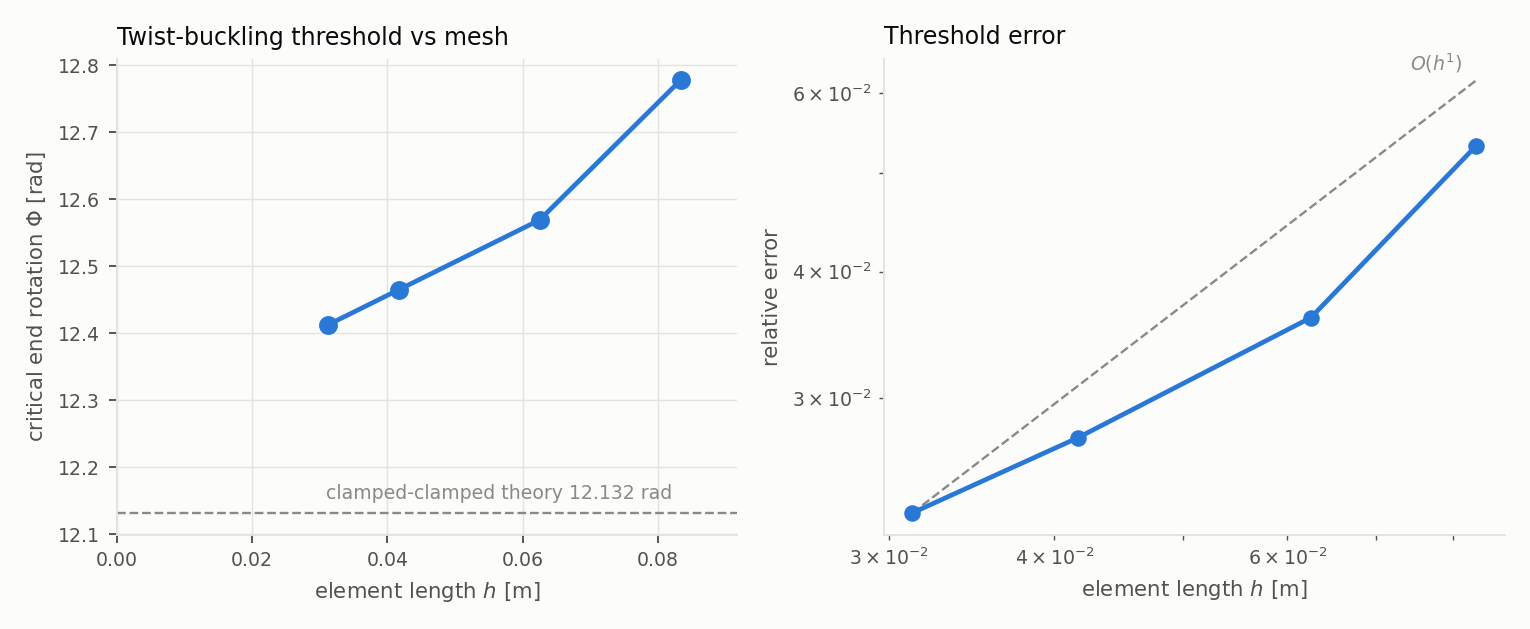
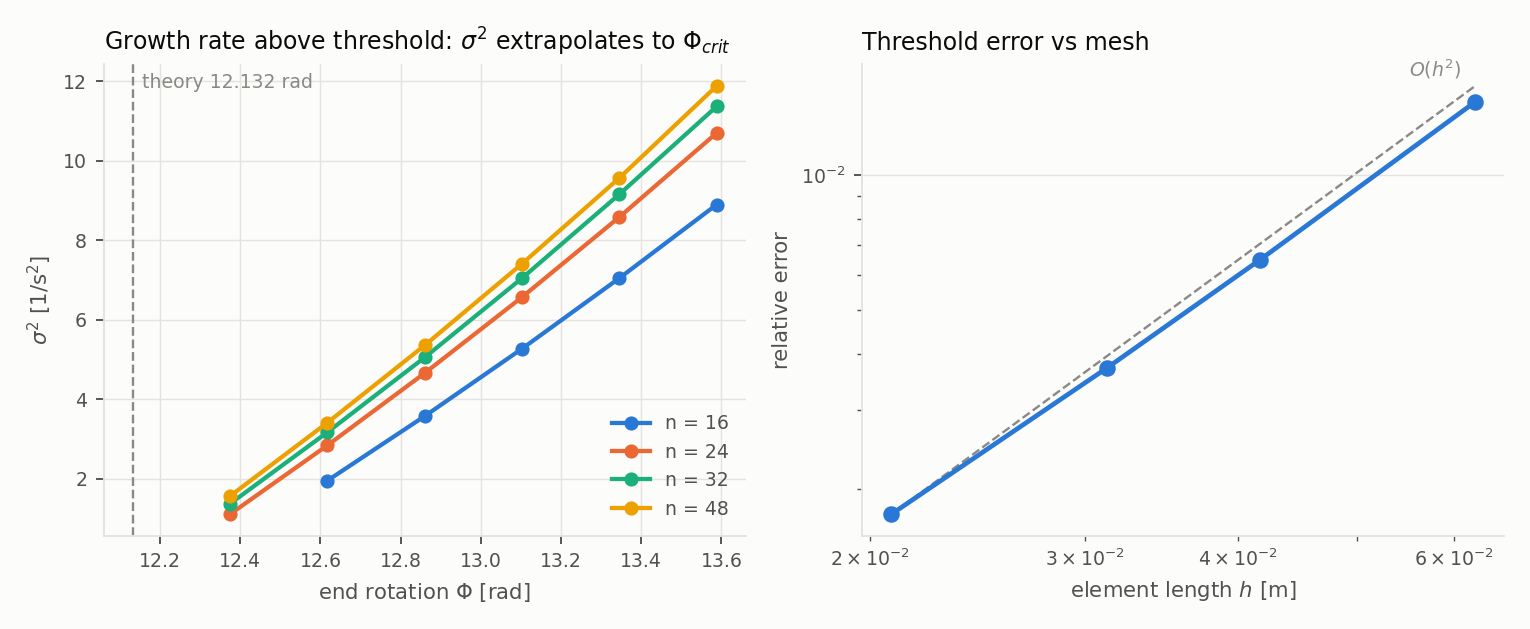
Twist buckling by growth rate: second order, 0.18% at n = 48
The case bisected on 'the seed grew 100x within 4 s' and reported 2.3% at
n = 32, slope 0.82. Both were the finite window: sigma ~ sqrt(Phi - Phi_crit),
so a window T overshoots by ~1/T^2 (+2.41%, +0.85%, +0.47% at 4, 8, 16 s).
It now measures the growth rate at twists 2-12% above theory and extrapolates
sigma^2 to zero: 1.46%, 0.65%, 0.37%, 0.18% at n = 16, 24, 32, 48, slope 1.93.
Substeps scale with the element (16 n per ms); the runs are threaded, and the
case takes 3 minutes instead of 9.

Claude-Session: https://claude.ai/code/session_01MHVSveg6UHVTXpnJbRWm7k

diff --git a/src/validation/cases.cpp b/src/validation/cases.cpp
@@ -4,6 +4,7 @@
 #include <cmath>
 #include <fstream>
 #include <sstream>
+#include <thread>
 
 #include "../core/solver.h"
 #include "../core/statics.h"
@@ -576,12 +577,17 @@ CaseResult runHelix(const std::string& outDir) {
 //
 //     Phi_crit = 8.986819 EI / GJ = 8.986819 (1 + nu)
 //
-// Fixing both end positions makes the bifurcation supercritical: above the
-// threshold the amplitude is limited by the axial strain that bowing costs, so
-// it grows smoothly like sqrt(Phi - Phi_crit) instead of running away. That is
-// what makes the threshold measurable rather than merely bracketable: a^2 is
-// linear in Phi near onset, so extrapolating it to zero locates Phi_crit
-// without ever having to pick an arbitrary "has buckled" amplitude.
+// Locating the threshold. Above it a small lateral perturbation grows as
+// e^(sigma t), and for this undamped system sigma^2 crosses zero smoothly at
+// Phi_crit. So the case measures sigma at several twists above the threshold
+// and extrapolates sigma^2 (a quadratic in Phi) to zero.
+//
+// It used to bisect on "the seed grew 100x within 4 s" instead, and that
+// reported 2.3% at n = 32, converging at slope 0.82. Both numbers were the
+// window, not the rod: sigma goes like sqrt(Phi - Phi_crit), so a finite
+// window T overshoots by ~1/T^2. At n = 32 the same bisection gave +2.41%,
+// +0.85% and +0.47% for 4, 8 and 16 s windows (tools/experiments/
+// twist_window.cpp), converging on the +0.38% the growth rate gives directly.
 CaseResult runTwistBuckling(const std::string& outDir) {
     CaseResult res;
     res.name = "Michell/Greenhill twist buckling threshold";
@@ -611,9 +617,11 @@ CaseResult runTwistBuckling(const std::string& outDir) {
     // the requirement that alpha/h^2 dominate J M^-1 J^T, which for this rod
     // means h of a few microseconds; that is affordable precisely because
     // honest dynamics does not need the quadratic sweep budget a converged
-    // static solve does.
-    const int steps = 4000;
-    const int substeps = 256;
+    // static solve does. The substep shrinks with the element (16 n per ms, 256
+    // at n = 32): at n = 48, 256 substeps left a 0.013% time error in a 0.18%
+    // threshold error and bent the convergence plot.
+    const int maxSteps = 30000;  // 30 s cap; the slowest growth used takes ~8 s
+    auto substepsFor = [](int n) { return 16 * n; };
 
     auto twistedRod = [&](int n, double phi) {
         Rod rod = makeStraightRod(n, L, mat, Vec3(0, 0, 0), Vec3(0, 0, 1));
@@ -640,7 +648,10 @@ CaseResult runTwistBuckling(const std::string& outDir) {
         return rod;
     };
 
-    auto amplitudeAt = [&](int n, double phi) {
+    // Growth rate from the time the lateral amplitude takes to go from 1e-5 to
+    // 1e-3 m: well past the 1e-7 seed's transient, well short of the ~1e-2 m at
+    // which the fixed end positions saturate it. 0 if it never gets there.
+    auto growthRate = [&](int n, double phi) {
         Rod rod = twistedRod(n, phi);
         for (std::size_t i = 1; i + 1 < rod.state.numParticles(); ++i)
             rod.state.x[i].x += seed * std::sin(kPi * rod.state.x[i].z / L);
@@ -648,25 +659,23 @@ CaseResult runTwistBuckling(const std::string& outDir) {
 
         SolverParams p;
         p.dt = Real(1e-3);
-        p.substeps = substeps;
+        p.substeps = substepsFor(n);
         p.iterations = 1;
         p.gravity = Vec3();
 
-        double amp = 0;
-        for (int i = 0; i < steps; ++i) {
+        double t1 = -1;
+        for (int i = 1; i <= maxSteps; ++i) {
             step(rod, p);
-            // Track the largest excursion over the whole window, not just the
-            // final one: below threshold the seed oscillates rather than decays,
-            // so the endpoint alone is a noisy thing to threshold on.
-            for (const Vec3& x : rod.state.x)
-                amp = std::max(amp, std::sqrt(x.x * x.x + x.y * x.y));
-            if (amp > 0.05) break;  // unambiguously buckled; no need to continue
+            double amp = 0;
+            for (const Vec3& x : rod.state.x) amp = std::max(amp, std::sqrt(x.x * x.x + x.y * x.y));
+            if (t1 < 0 && amp > 1e-5) t1 = i * double(p.dt);
+            if (amp > 1e-3) return std::log(100.0) / (i * double(p.dt) - t1);
         }
-        return amp;
+        return 0.0;
     };
 
-    Csv csv(outDir, "twist_buckling.csv",
-            "segments,h,phi_crit,phi_crit_ref,rel_err,amp_below,amp_above");
+    Csv csv(outDir, "twist_buckling.csv", "segments,h,phi_crit,phi_crit_ref,rel_err,rates_used");
+    Csv rates(outDir, "twist_buckling_rates.csv", "segments,phi,overshoot,sigma");
 
     // Guard on the base state before trusting any threshold read off it. A
     // uniformly twisted rod's stored energy has a closed form in the DISCRETE
@@ -702,38 +711,82 @@ CaseResult runTwistBuckling(const std::string& outDir) {
             makeCheck("twisted base state stores the right energy", stored, discrete, 0.002));
     }
 
-    const double buckled = 100.0 * double(seed);  // four orders below the saturated amplitude
-    const std::vector<int> counts = {12, 16, 24, 32};
-    std::vector<double> hs, errs;
-    double finest = 0;
+    // Twists 2-12% above the continuum threshold. The coarsest mesh's own
+    // threshold is above the lowest of them, which then does not grow and is
+    // left out of its fit.
+    const std::vector<int> counts = {16, 24, 32, 48};
+    const std::vector<double> overshoots = {0.02, 0.04, 0.06, 0.08, 0.10, 0.12};
+    std::vector<std::vector<double>> sigma(counts.size(), std::vector<double>(overshoots.size()));
+    {
+        std::vector<std::thread> pool;
+        for (std::size_t a = 0; a < counts.size(); ++a)
+            for (std::size_t b = 0; b < overshoots.size(); ++b)
+                pool.emplace_back([&, a, b] {
+                    sigma[a][b] = growthRate(counts[a], phiCritRef * (1 + overshoots[b]));
+                });
+        for (std::thread& t : pool) t.join();
+    }
 
-    for (int n : counts) {
-        // Bracket, then bisect. The lower bracket is known not to buckle and the
-        // upper is known to.
-        double lo = 0.5 * phiCritRef, hi = 1.6 * phiCritRef;
-        const double ampLo = amplitudeAt(n, lo), ampHi = amplitudeAt(n, hi);
-        for (int it = 0; it < 9; ++it) {
-            const double mid = 0.5 * (lo + hi);
-            if (amplitudeAt(n, mid) > buckled)
-                hi = mid;
-            else
-                lo = mid;
+    std::vector<double> hs, errs;
+    bool allFitted = true;
+    for (std::size_t a = 0; a < counts.size(); ++a) {
+        const int n = counts[a];
+        // Least-squares quadratic sigma^2(Phi), in u = Phi / Phi_ref - 1 for
+        // conditioning, then its root nearest the reference.
+        double S[5] = {0, 0, 0, 0, 0}, T3[3] = {0, 0, 0};
+        int used = 0;
+        for (std::size_t b = 0; b < overshoots.size(); ++b) {
+            rates.row(n, phiCritRef * (1 + overshoots[b]), overshoots[b], sigma[a][b]);
+            if (sigma[a][b] <= 0) continue;
+            const double u = overshoots[b], y = sigma[a][b] * sigma[a][b];
+            double uk = 1;
+            for (int k = 0; k < 5; ++k, uk *= u) S[k] += uk;
+            T3[0] += y, T3[1] += y * u, T3[2] += y * u * u;
+            ++used;
         }
-        const double phiCrit = 0.5 * (lo + hi);
+        if (used < 4) {
+            allFitted = false;
+            continue;
+        }
+        // Normal equations for y = c0 + c1 u + c2 u^2, by Cramer's rule.
+        auto det3 = [](double m[3][3]) {
+            return m[0][0] * (m[1][1] * m[2][2] - m[1][2] * m[2][1]) -
+                   m[0][1] * (m[1][0] * m[2][2] - m[1][2] * m[2][0]) +
+                   m[0][2] * (m[1][0] * m[2][1] - m[1][1] * m[2][0]);
+        };
+        double A[3][3] = {{S[0], S[1], S[2]}, {S[1], S[2], S[3]}, {S[2], S[3], S[4]}};
+        const double D = det3(A);
+        double c[3];
+        for (int k = 0; k < 3; ++k) {
+            double M[3][3];
+            for (int r = 0; r < 3; ++r)
+                for (int q = 0; q < 3; ++q) M[r][q] = q == k ? T3[r] : A[r][q];
+            c[k] = det3(M) / D;
+        }
+        // sigma^2 rises through zero at the threshold: the root where the
+        // slope is positive.
+        const double disc = std::sqrt(std::max(0.0, c[1] * c[1] - 4 * c[2] * c[0]));
+        const double r1 = (-c[1] + disc) / (2 * c[2]), r2 = (-c[1] - disc) / (2 * c[2]);
+        const double root = (c[1] + 2 * c[2] * r1 > 0) ? r1 : r2;
+        const double phiCrit = phiCritRef * (1 + root);
         const double err = std::abs(phiCrit - phiCritRef) / phiCritRef;
         hs.push_back(L / n);
         errs.push_back(err);
-        finest = err;
-        csv.row(n, L / n, phiCrit, phiCritRef, err, ampLo, ampHi);
+        csv.row(n, L / n, phiCrit, phiCritRef, err, used);
+        res.notes.push_back(fmt("  n=%.0f: Phi_crit = %.5f rad, %.3g relative error", double(n),
+                                phiCrit, err));
     }
 
-    const double slope = logLogSlope(hs, errs);
     res.notes.push_back(fmt("  clamped-clamped: M_crit L / EI = %.6f, so Phi_crit = %.5f rad "
                             "(%.4f turns)", thetaCrit, phiCritRef, phiCritRef / (2 * kPi)));
-    res.notes.push_back(fmt("  threshold error %.3g at the finest mesh, converging at slope %.2f "
-                            "in h", finest, slope));
-    res.checks.push_back(makeCheck("buckling threshold (finest mesh)", finest, 0.0, 0.05, 1.0));
-    res.checks.push_back(makeRangeCheck("threshold convergence order in h", slope, 0.8, 3.0));
+    res.checks.push_back(makeCheck("growth rate fitted on every mesh", allFitted ? 1.0 : 0.0, 1.0, 0.0));
+    if (errs.size() == counts.size()) {
+        const double slope = logLogSlope(hs, errs);
+        res.notes.push_back(fmt("  threshold error %.3g at the finest mesh, converging at slope %.2f "
+                                "in h", errs.back(), slope));
+        res.checks.push_back(makeCheck("buckling threshold (finest mesh)", errs.back(), 0.0, 0.01, 1.0));
+        res.checks.push_back(makeRangeCheck("threshold convergence order in h", slope, 1.7, 2.3));
+    }
     return res;
 }
 

diff --git a/tools/plot_validation.py b/tools/plot_validation.py
@@ -205,19 +205,24 @@ def plot_dissipation(data, figs):
 
 def plot_twist(data, figs):
     d = read(os.path.join(data, "twist_buckling.csv"))
-    fig, (ax0, ax1) = new_fig(9.0, 3.7, 2)
     ref = d["phi_crit_ref"][0]
-    ax0.plot(d["h"], d["phi_crit"], "o-", color=T["series"][0], linewidth=2, markersize=7,
-             label="measured")
-    ax0.axhline(ref, color=T["guide"], linestyle="--", linewidth=1)
-    ax0.annotate(f"clamped-clamped theory {ref:.3f} rad", (max(d["h"]), ref), color=T["guide"],
-                 fontsize=8, xytext=(-150, 6), textcoords="offset points")
-    ax0.set_xlim(0, max(d["h"]) * 1.1)
-    style(ax0, "Twist-buckling threshold vs mesh", "element length $h$ [m]",
-          r"critical end rotation $\Phi$ [rad]")
+    fig, (ax0, ax1) = new_fig(9.0, 3.7, 2)
+    rates_path = os.path.join(data, "twist_buckling_rates.csv")
+    if os.path.exists(rates_path):
+        r = read(rates_path)
+        for i, n in enumerate(sorted(set(r["segments"]))):
+            rows = [k for k, v in enumerate(r["segments"]) if v == n and r["sigma"][k] > 0]
+            ax0.plot([r["phi"][k] for k in rows], [r["sigma"][k] ** 2 for k in rows], "o-",
+                     color=T["series"][i], linewidth=1.8, markersize=5, label=f"n = {int(n)}")
+        ax0.axvline(ref, color=T["guide"], linestyle="--", linewidth=1)
+        ax0.annotate(f"theory {ref:.3f} rad", (ref, 0.95), xycoords=("data", "axes fraction"),
+                     color=T["guide"], fontsize=8, xytext=(4, 0), textcoords="offset points")
+        style(ax0, r"Growth rate above threshold: $\sigma^2$ extrapolates to $\Phi_{crit}$",
+              r"end rotation $\Phi$ [rad]", r"$\sigma^2$ [1/s$^2$]")
+        legend(ax0)
     ax1.loglog(d["h"], d["rel_err"], "o-", color=T["series"][0], linewidth=2, markersize=6)
-    guide(ax1, d["h"], d["rel_err"], 1)
-    style(ax1, "Threshold error", "element length $h$ [m]", "relative error")
+    guide(ax1, d["h"], d["rel_err"], 2)
+    style(ax1, "Threshold error vs mesh", "element length $h$ [m]", "relative error")
     save(fig, figs, "twist_buckling.png")
 
 

diff --git a/tools/experiments/twist_window.cpp b/tools/experiments/twist_window.cpp
@@ -51,7 +51,7 @@ Rod twistedRod(int n, double phi) {
 SolverParams params() {
     SolverParams p;
     p.dt = Real(1e-3);
-    p.substeps = 256;
+    p.substeps = std::getenv("CRS_SUBSTEPS") ? std::atoi(std::getenv("CRS_SUBSTEPS")) : 256;
     p.iterations = 1;
     p.gravity = Vec3();
     return p;

diff --git a/docs/writeup.md b/docs/writeup.md
@@ -188,7 +188,7 @@ case for them, and rotating one about the tangent is how twist is imposed.
 | pure end moment | exact circular arc of radius `EI/M` | slope 2.01; 1.0e-4 at n = 128 |
 | tip-load elastica | exact planar elastica by shooting; Reissner's extensible elastica | worst 6.3e-4 L at n = 32; vs extensible: slope 1.96, 9.4e-6 L at n = 256 |
 | helix | `R = κ/(κ²+τ²)`, pitch `2πτ/(κ²+τ²)` | 2.2e-10 and 5.2e-4 relative |
-| twist buckling | clamped–clamped Michell threshold | 2.3% at n = 32, converging |
+| twist buckling | clamped–clamped Michell threshold | 0.18% at n = 48, slope 1.93 |
 | energy | conservation invariants | momentum to 1e-9; dissipation and gain shrink with substeps |
 | cross-check | independent NumPy implementation | 4.7e-13 m after 200 steps |
 
@@ -215,9 +215,21 @@ it and the rod stored no twist at all. Constructing the uniformly twisted state
 directly fixed that. The next version used static relaxation and found the
 threshold 18% low — but raising the damping made the "buckling" vanish, which no
 physical instability does. A heavily-iterated XPBD step is close to backward
-Euler, and backward Euler damps genuinely unstable modes. The final case runs
-honest dynamics (256 substeps, one sweep, no damping) and bisects on growth of a
-seeded perturbation. It also checks the twisted base state's stored energy
+Euler, and backward Euler damps genuinely unstable modes. The case then ran
+honest dynamics (256 substeps, one sweep, no damping) and bisected on whether a
+seeded perturbation grew 100× within 4 s. That reported 2.3% at n = 32,
+converging at slope 0.82, and both numbers were the window. Above threshold the
+perturbation grows as `e^{σt}` with `σ ∝ √(Φ − Φ_crit)`, so a window `T`
+overshoots by about `1/T²`. At n = 32 the same bisection gave +2.41%, +0.85%
+and +0.47% for 4, 8 and 16 s windows (`tools/experiments/twist_window.cpp`).
+The fourth version measures `σ` itself at twists 2–12% above theory and
+extrapolates `σ²`, a smooth quadratic in `Φ`, to zero. No window enters. The
+threshold error is 1.46%, 0.65%, 0.37% and 0.18% at n = 16, 24, 32 and 48:
+second order (slope 1.93). The substep scales with the element (16 n per ms).
+At n = 48, 256 substeps left a 0.013% time error that bent the last point. The
+case went from 9 minutes to 3.
+
+The case also checks the twisted base state's stored energy
 against the *discrete* prediction: the discrete twist measure `2 sin(φ/2)/lbar`
 stores about 2% less than the continuum at half a radian per joint, an `O(h²)`
 difference that a check against the continuum value would have flagged as a bug.
@@ -686,8 +698,6 @@ This is the section that matters most, so it is specific.
   rule gives from the landing speed.
 - **The demo scenes were simulated before the material-frame fix** and should
   be re-run.
-- **Twist buckling** is first order over n = 12–32 and 2.3% off at the finest
-  mesh.
 - **Energy is dissipated,** not conserved. Only its convergence with substeps is
   established, over 2–16 substeps.
 - **Contact is simplified.** Rod–world contact is per particle (a chain of

diff --git a/REMAINING.md b/REMAINING.md
@@ -47,10 +47,11 @@ Nsight-profile the learning batch.
 - **Friction creep:** a cable resting on a bar creeps ~2 mm/s even at 2x the
   needed friction (per-particle contact ratcheting). Try segment-based contact
   or a static-friction anchor per contact; it biases hold/slip answers.
-- **Validation gaps:** tip-load and twist-buckling mesh sweeps beyond n=32
-  (twist buckling converges at slope 0.82 — explain or improve); timestep
-  envelope beyond one scenario (contact-driven, whipping); contact torque
-  (rolling / torsional friction); segment-based rod–primitive contact.
+- **Validation gaps:** the short-element regime of the timestep rule; contact
+  torque (rolling / torsional friction); segment-based rod–primitive contact.
+  Done 2026-09-17: tip-load sweep to n = 256 (slope 1.96 vs Reissner),
+  `timestep-motions` (swing/drop/whip), twist buckling by growth rate (0.18% at
+  n = 48, second order; the old slope 0.82 was the detection window).
   Done 2026-09-17: `capstan-mu` (μ 0.1–0.75, worst 0.71%) and
   `timestep-convergence` (first order in the substep, observed 1.00).
 - **CI:** consider a shorter per-commit suite (twist buckling 9 min, capstan
@@ -142,10 +143,9 @@ compile; they have never executed.
       will go red on the two stability cases until they are redesigned.
       Consider shortening twist buckling / capstan for per-commit runs.
 - [x] Timestep-refinement convergence study (`timestep-convergence`: first order).
-- [ ] Extend mesh sweeps: cantilever (n = 256), moment (n = 128) and tip load
-      (n = 256, slope 1.96 vs Reissner's extensible elastica) done; twist buckling
-      still at n = 32. Twist buckling converges at slope 0.82 (first
-      order) — explain or improve.
+- [x] Extend mesh sweeps: cantilever (n = 256), moment (n = 128), tip load
+      (n = 256, slope 1.96 vs Reissner's extensible elastica), twist buckling
+      (n = 48, second order by growth rate).
 - [x] Stability rule across motions (`timestep-motions`: swing, drop, whip; 1-6%
       of an element per substep; contact 3-5x tighter by landing speed).
 - [ ] The short-element regime (elements shorter than the rod diameter).

diff --git a/README.md b/README.md
@@ -119,7 +119,7 @@ segments are halved in length, as the theory says it should.
 | Rod bent into a circle by an end moment | exact circle, radius `EI/M` | error **1e-4** at 128 segments, slope **2.01** |
 | Large bending under a tip load | exact elastica | tip within **0.06%** of rod length; converges at slope **1.96** to the extensible elastica |
 | Rod with built-in curvature and twist | exact helix | radius to **2e-10**, pitch to **5e-4** |
-| Twisted rod buckling | Michell/Greenhill threshold | **2.3%** at 32 segments, converging |
+| Twisted rod buckling | Michell/Greenhill threshold | **0.18%** at 48 segments, second order |
 | Resting on plane, sphere, capsule, box | exact geometry | **2e-16** |
 | Block on a slope | slips at `tan α = μ` | within **1.5%** |
 | Rope wrapped around a post (capstan) | `T₂/T₁ = e^{μθ}` | within **1.6%**, 0.25 to 1 turn; **0.7%** for μ = 0.1 to 0.75 |
@@ -189,8 +189,8 @@ python tools\make_video.py              :: scenes + figures -> out\video\demo.mp
 python tools\reference_prototype.py     :: cross-check against the NumPy version
 ```
 
-The full suite takes about 17 minutes; almost all of that is twist buckling and
-the capstan sweep. Python tools need `numpy`, `matplotlib`, `Pillow` and
+The full suite takes a quarter of an hour; most of that is twist buckling and
+the capstan cases. Python tools need `numpy`, `matplotlib`, `Pillow` and
 `imageio-ffmpeg`.
 
 ---
